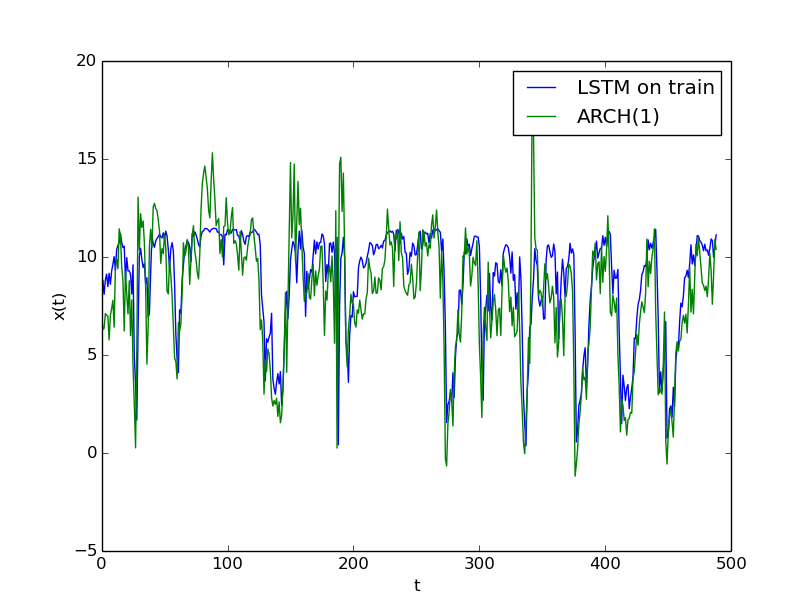
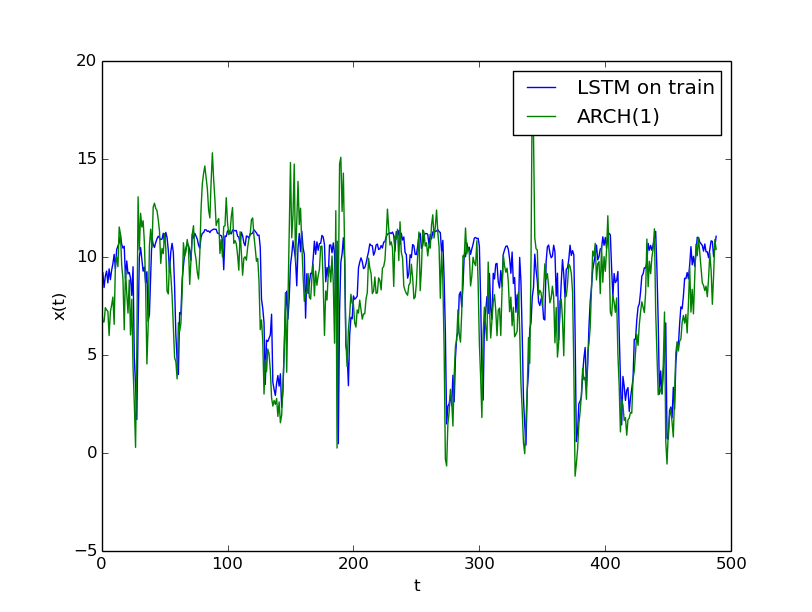
images and sigma update in arch-lstm.py

diff --git a/arch-lstm.py b/arch-lstm.py
@@ -15,7 +15,7 @@ np.random.seed(7)
 
 def arch1(phi0, phi1, alpha0, alpha1, length=10):
 	x = [0]
-	sigma = 0.1
+	sigma = 1
 	e = [np.random.normal(0,sigma,1)[0]]
 	x.append(phi0 + phi1*x[0] + e[0])
 
